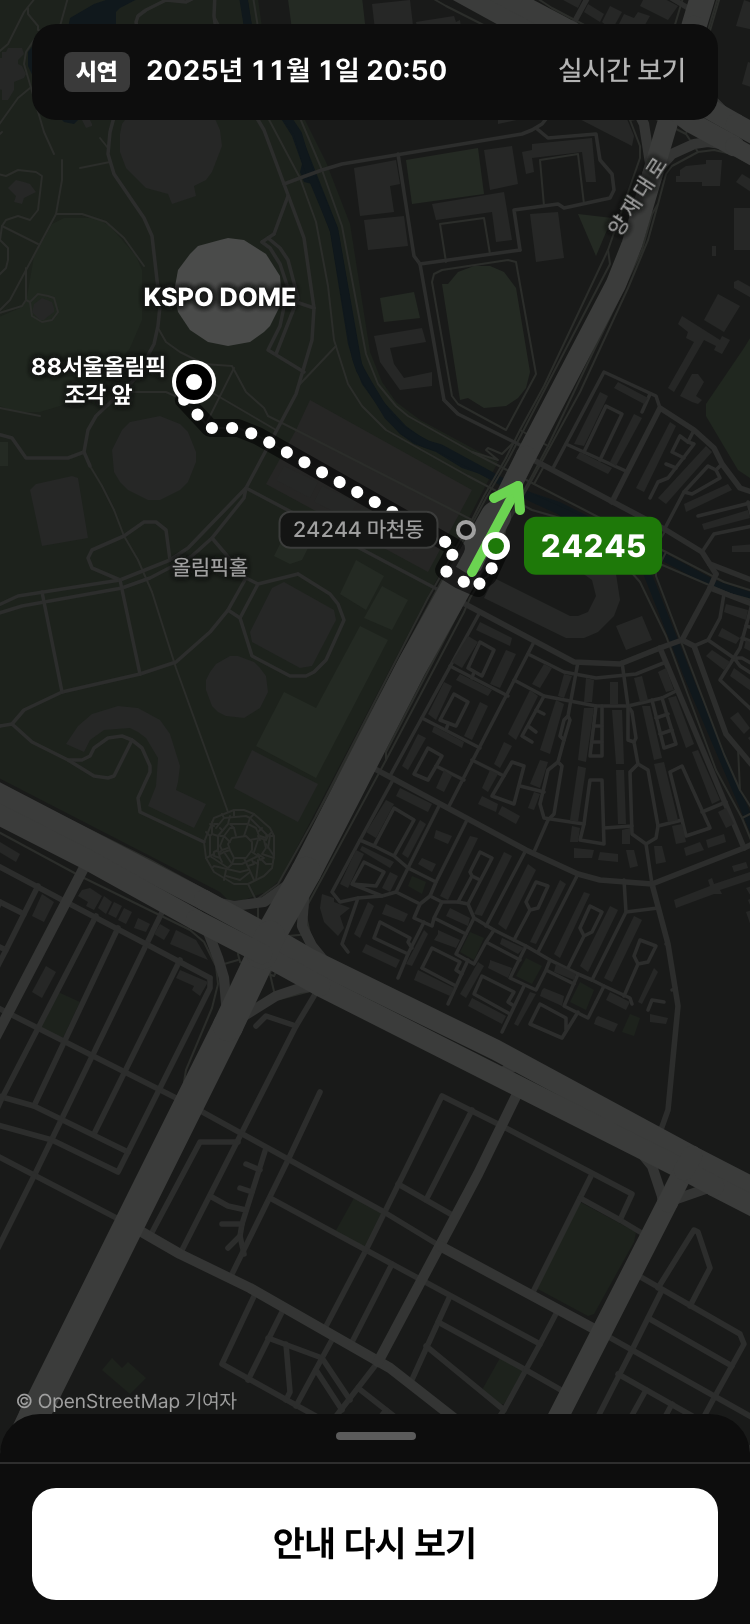
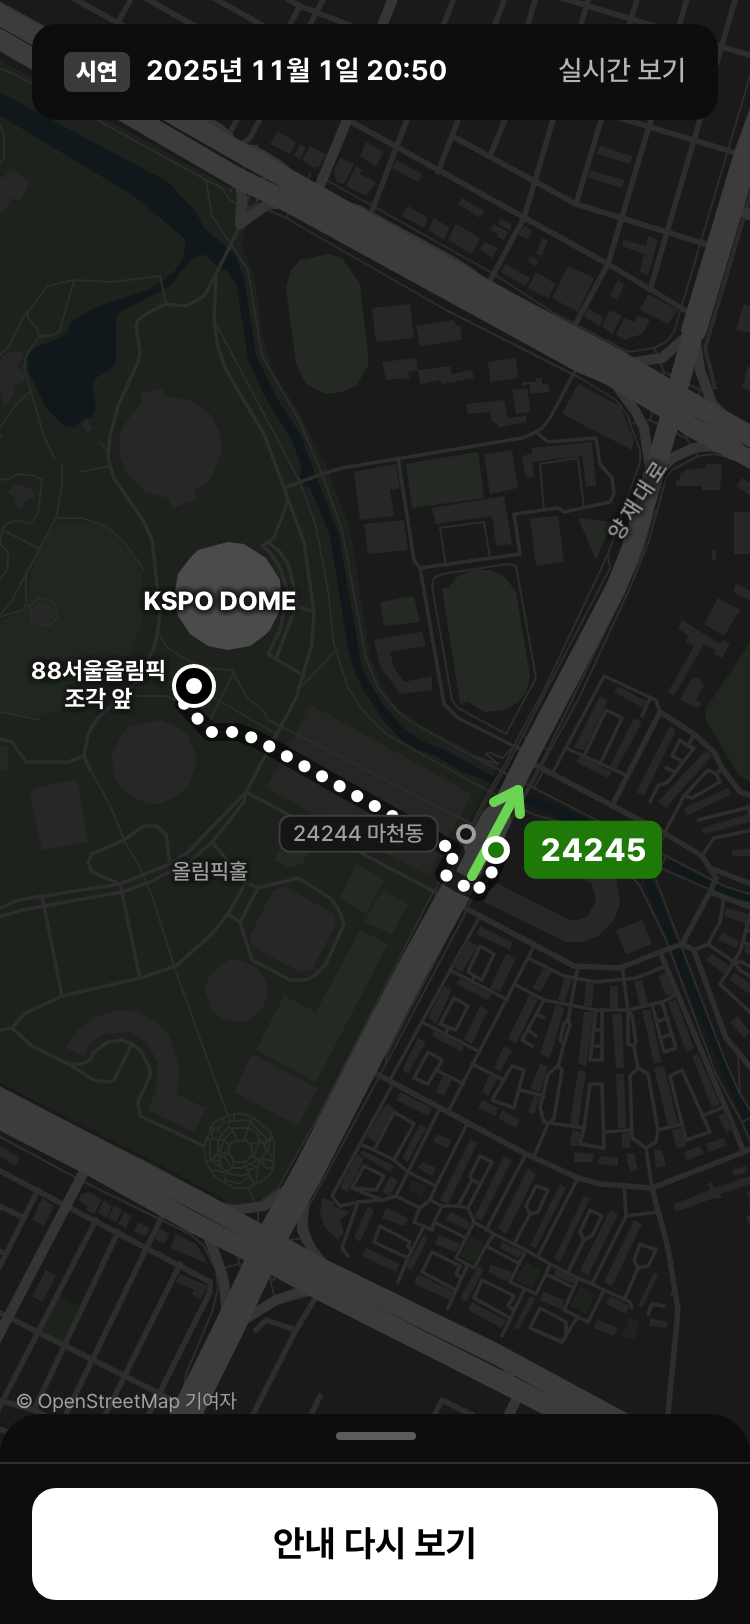
지도 맞춤 수정: 가려진 탭에서도 경로가 시트 위에 다 보이게, 짧은 화면 시트 낮춤

diff --git a/public/app.js b/public/app.js
@@ -349,7 +349,7 @@
     clock(); setDown(0);
     if (view === 'home') home(); else if (view === 'go') go(opts[sel]); else if (view === 'event') eventView(); else car();
     $('view').scrollTop = 0;
-    cta(); fit(true);
+    cta(); fit();
     if (moved === true) { var t = $('view').querySelector('h1'); if (t) t.focus({ preventScroll: true }); }
   }
   addEventListener('hashchange', function () { route(true); });
@@ -357,7 +357,7 @@
     var t = e.target.closest('[data-i],[data-go],[data-sc],[data-retry],[data-gate]'); if (!t) return;
     var d = t.dataset;
     if (d.go) nav(d.go);
-    else if (d.i != null) { sel = +d.i; list(); cta(); fit(true); $('list').children[sel].scrollIntoView({ block: 'nearest' }); }
+    else if (d.i != null) { sel = +d.i; list(); cta(); fit(); $('list').children[sel].scrollIntoView({ block: 'nearest' }); }
     else if (d.sc) {
       sc = d.sc; params(); clock(); update(); cta();
       $('view').querySelectorAll('[data-sc]').forEach(function (b) { b.setAttribute('aria-pressed', String(b.dataset.sc === sc)); });
@@ -376,7 +376,7 @@
     $('view').style.visibility = folded ? 'hidden' : '';
     $('grip').setAttribute('aria-expanded', String(!folded));
   }
-  function fold(on) { setDown(on ? closedAt() : 0); cta(); fit(true); }
+  function fold(on) { setDown(on ? closedAt() : 0); cta(); fit(); }
   (function () {
     var g = $('grip'), y0 = null, b0 = 0, moved = false, wasKey = true;
     g.addEventListener('pointerdown', function (e) { y0 = e.clientY; b0 = down; moved = false; wasKey = false; g.setPointerCapture(e.pointerId); $('sheet').classList.add('drag'); });
@@ -413,7 +413,8 @@
     drawBase();
     map.on('zoomend', function () { base.eachLayer(function (l) { if (l.mw) l.setStyle({ weight: px(l.mw) }); }); overlay(); });
     matchMedia('(prefers-color-scheme: light)').addEventListener('change', function () { drawBase(); overlay(); });
-    addEventListener('resize', function () { setDown(folded ? closedAt() : 0); fit(false); });
+    addEventListener('resize', function () { setDown(folded ? closedAt() : 0); fit(); });
+    if (window.ResizeObserver) new ResizeObserver(function () { if (!$('sheet').classList.contains('drag')) fit(); }).observe($('sheet'));
   }
   function drawBase() {
     if (base) base.remove();
@@ -478,14 +479,18 @@
       mark(e, 'm-tag plain at-b', x.name + ' ' + x.exit).addTo(over);
     }
   }
-  function fit(anim) {
-    if (!map) return;
+  // 출발점~목적지가 상단 띠와 시트 사이에 들어오게 맞춘다.
+  // 애니메이션을 쓰지 않는다: 가려진 탭에서는 끝나지 않아 지도가 처음 위치에 남는다.
+  function fit() {
+    if (!map || !opts.length) return;
+    map.stop();
+    map.invalidateSize({ animate: false, pan: false });
     var x = opts[sel], b = L.latLngBounds(x.line.map(ll)), wide = innerWidth >= 768, s = $('sheet');
     if (x.kind === 'bus') b.extend(ST.machon).extend(ST.gangbyeon).extend(heading(x.k)[1]);
     var sh = s.offsetHeight - down;
     if (!wide) sh = Math.min(sh, innerHeight * .7);
     map.getContainer().querySelector('.leaflet-bottom').style.cssText = wide ? 'left:440px' : 'bottom:' + sh + 'px';
-    map.fitBounds(b, { animate: anim, paddingTopLeft: [wide ? 520 : 92, 112], paddingBottomRight: [wide ? 80 : x.kind === 'bus' ? 116 : 84, wide ? 40 : sh + (x.kind === 'bus' ? 30 : 54)] });
+    map.fitBounds(b, { animate: false, paddingTopLeft: [wide ? 520 : 92, 112], paddingBottomRight: [wide ? 80 : x.kind === 'bus' ? 116 : 84, wide ? 40 : sh + (x.kind === 'bus' ? 30 : 54)] });
     overlay();
   }
 })();

diff --git a/public/app.css b/public/app.css
@@ -217,3 +217,8 @@ th:first-child, td:first-child { text-align: left; }
   .sheet, .sheet[data-view] { bottom: var(--sp-6); border-radius: var(--r-sheet); max-height: calc(100dvh - 108px); }
 }
 @media (prefers-reduced-motion: reduce) { .sheet { transition: none; } }
+
+/* 세로가 짧은 화면: 지도가 너무 작아지지 않게 시트를 낮춘다 */
+@media (max-width: 767px) and (max-height: 700px) {
+  .sheet, .sheet[data-view="home"] { max-height: 60dvh; }
+}
